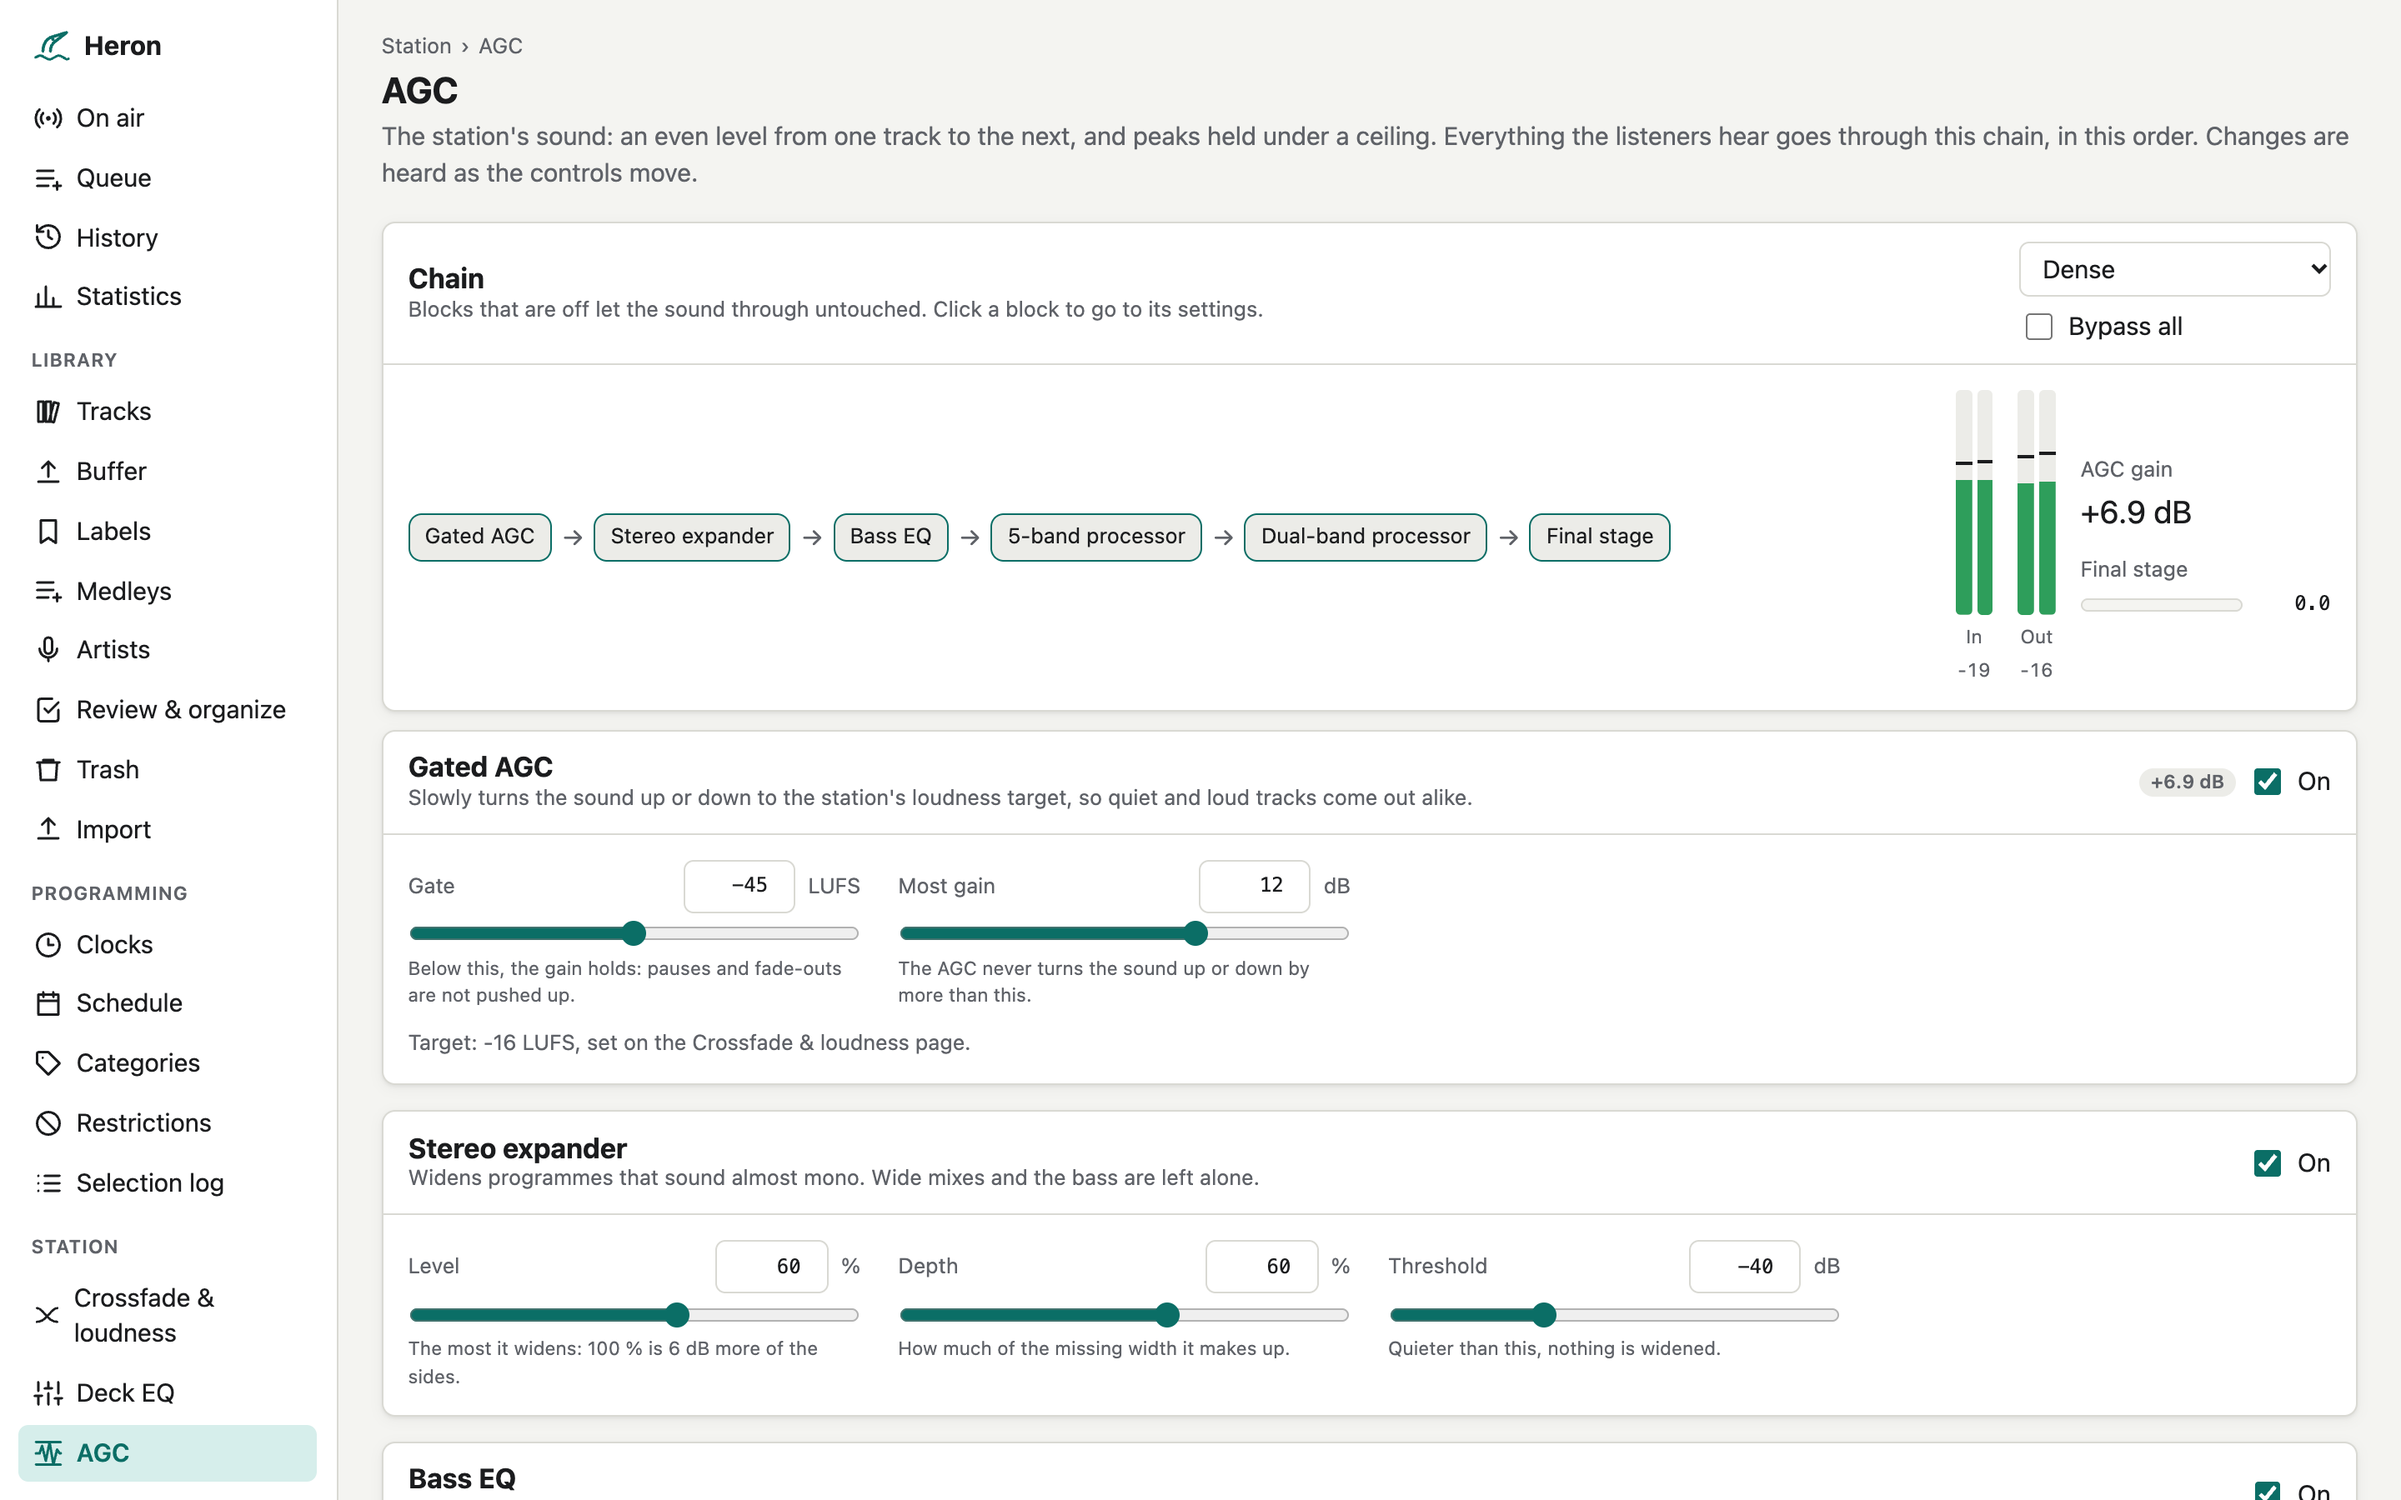
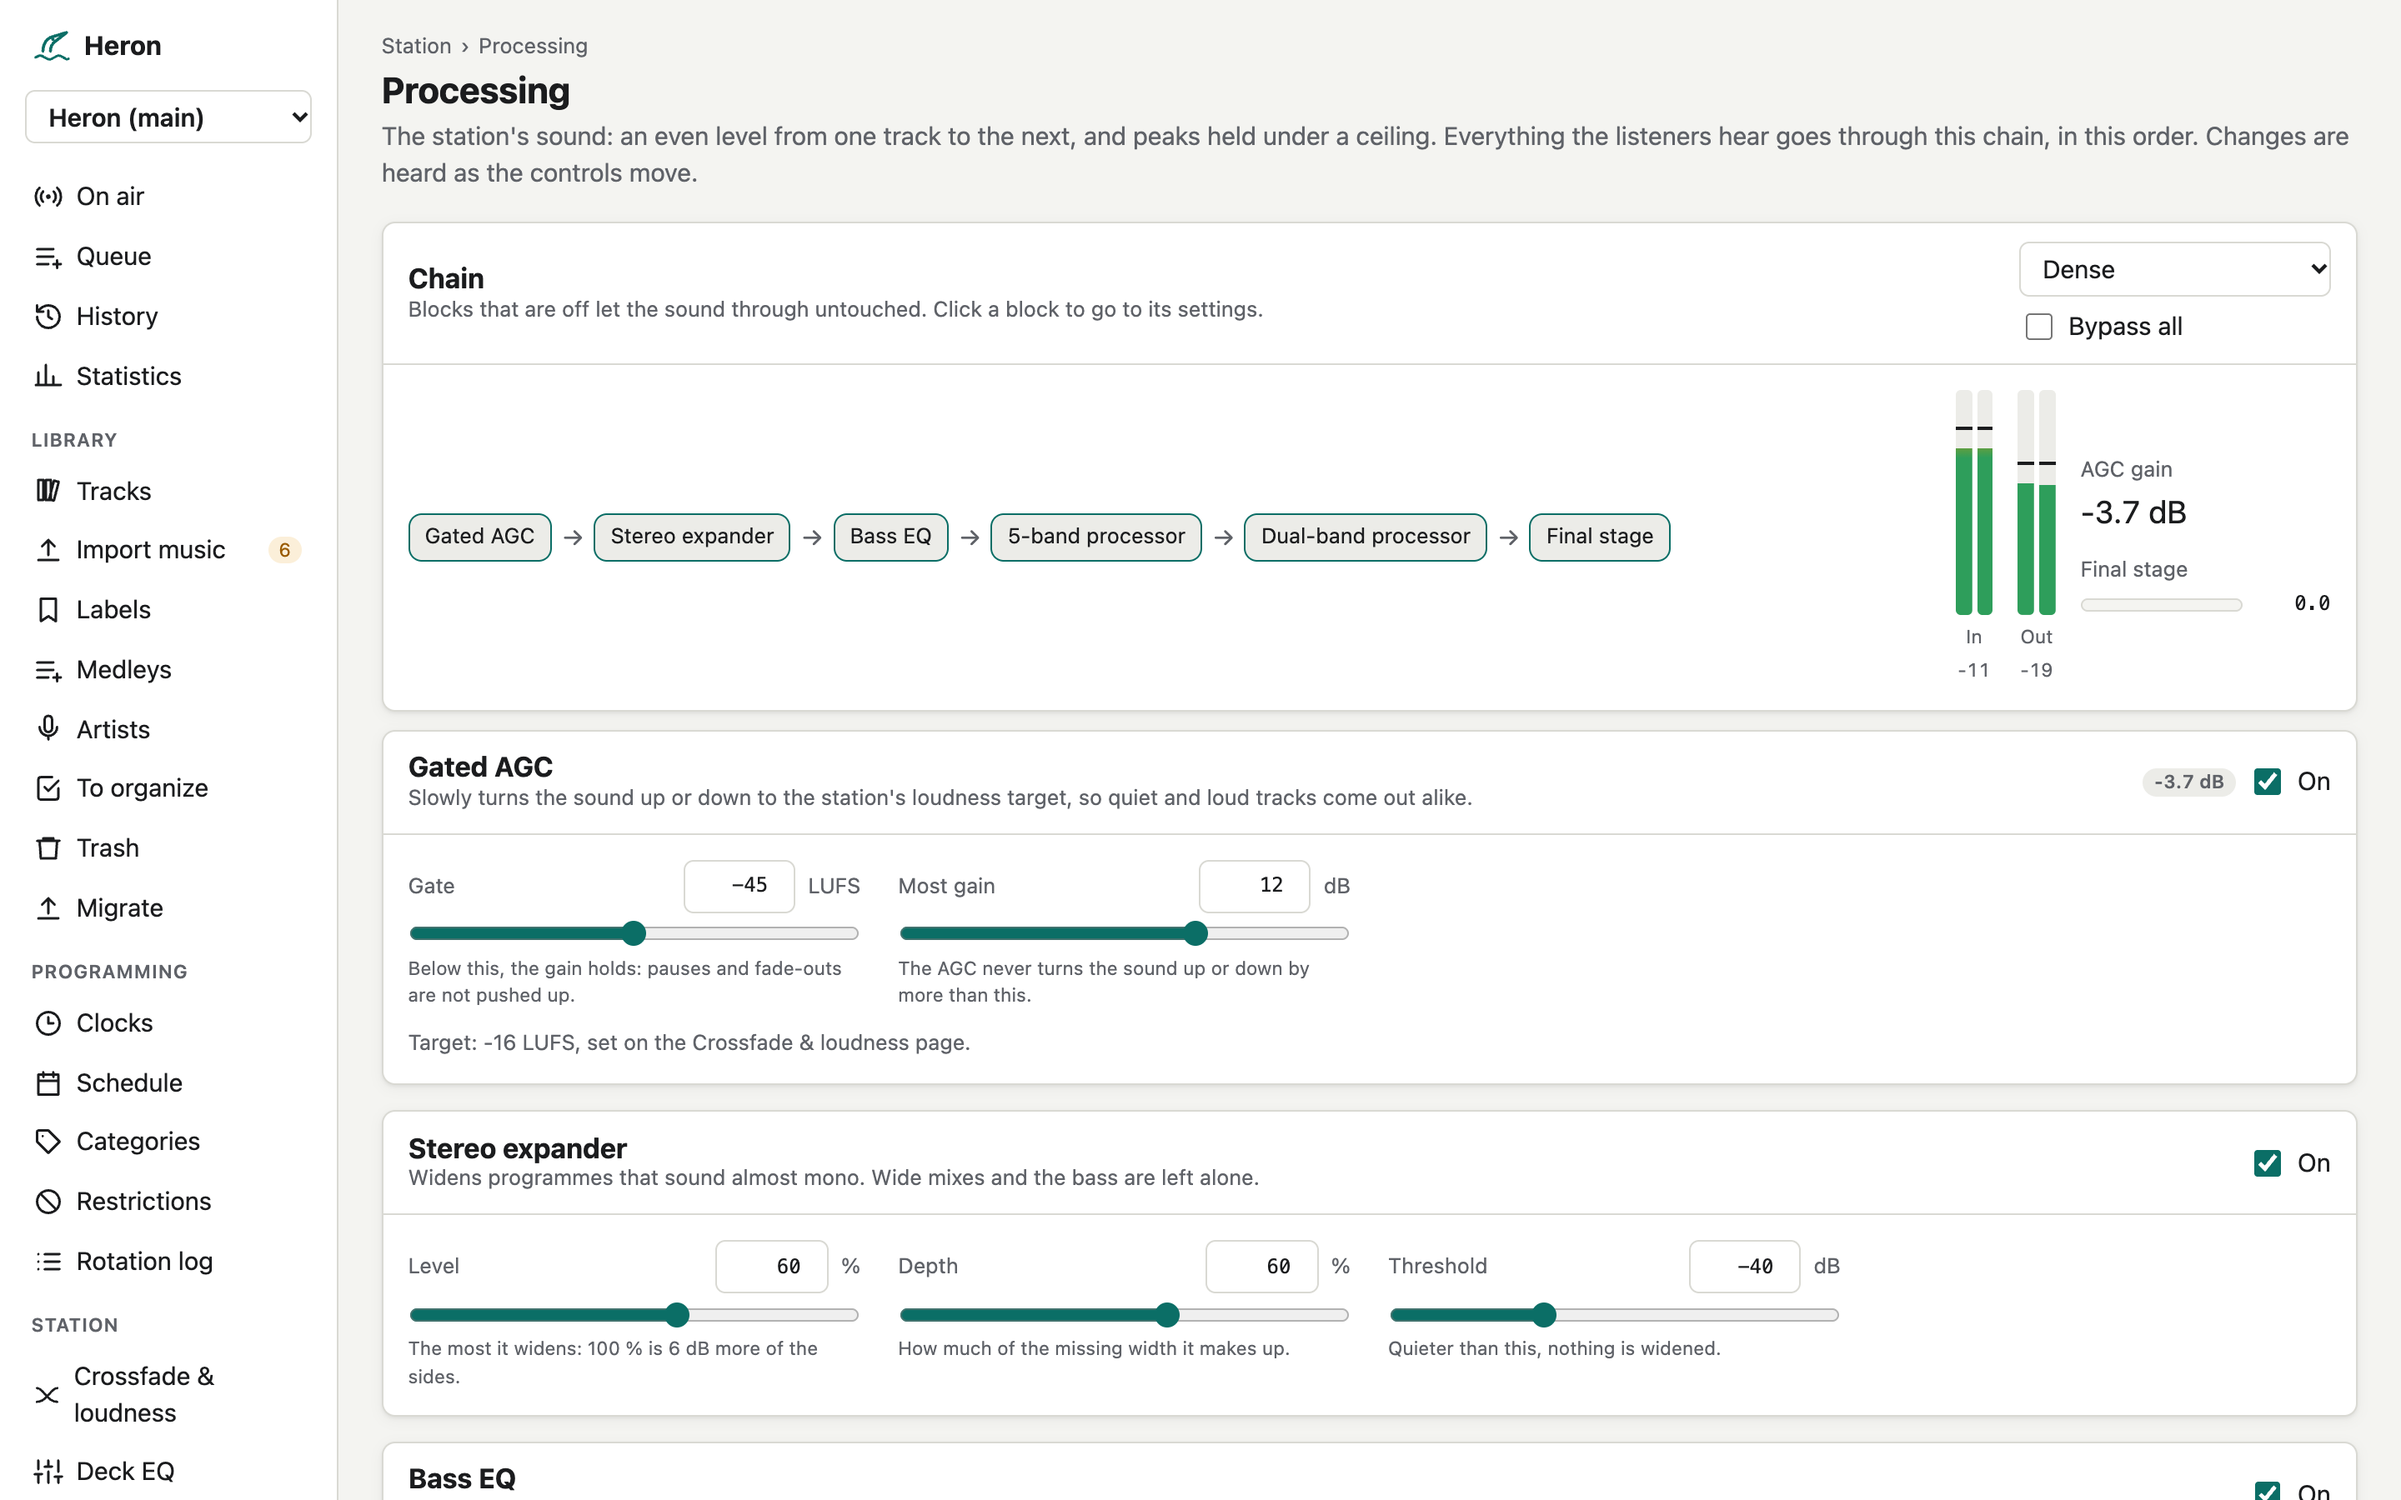
docs(readme): screenshots with the new page names
The demo station is fictional: its tracks and jingles are synthesised.

diff --git a/README.md b/README.md
@@ -36,8 +36,8 @@ Heron runs on Linux, amd64 and arm64, down to a Raspberry Pi.
 | [![A clock: its slots, the hour drawn as it will sound, a simulation](docs/images/clock-editor.png)](docs/images/clock-editor.png) **Clock editor:** slots by drag and drop, the hour as it will sound | [![A track: waveform with cue-in, cue-out, the end of the intro, the hook and where the next track starts](docs/images/track.png)](docs/images/track.png) **Track:** waveform, cue points, intro and hook, crossfade, analysis |
 | [![The week, hour by hour, painted with clocks](docs/images/schedule.png)](docs/images/schedule.png) **Schedule:** which clock runs at each hour of the week, and the schedules for seasons | [![The deck EQ: ten sliders and the response curve for the music, and for the FX player](docs/images/eq.png)](docs/images/eq.png) **Deck EQ:** the music and the FX player, heard as the sliders move |
 | [![The Processing page: the chain of blocks with its presets, input and output meters, the AGC's gain, and the gated AGC's settings](docs/images/agc.png)](docs/images/agc.png) **Processing:** the station's processing chain, block by block, with its meters and presets | [![The 5-band processor: crossovers, overdrive and, for each band, its gain reduction, mode, threshold, ratio, times and link](docs/images/agc-five-band.png)](docs/images/agc-five-band.png) **5-band processor:** each band's dynamics and live gain reduction, linked bands moving together |
-| [![A medley: its hooks and liners on a timeline, the liners over the music, the fade-out, the playhead](docs/images/medley.png)](docs/images/medley.png) **Medleys:** hooks and liners mixed into a track, on a timeline to listen to and adjust | [![The buffer: an album waiting to be imported, with its paths and categories](docs/images/buffer.png)](docs/images/buffer.png) **Buffer:** new music identified, checked and prepared before it is imported |
-| [![The rotation log: why each track was picked, from which clock and slot, the rules held or relaxed](docs/images/selection-log.png)](docs/images/selection-log.png) **Rotation log:** why each track was picked, and a simulation of the day or the week | [![The outputs: an Icecast stream connected with its listeners, the encoder profiles](docs/images/outputs.png)](docs/images/outputs.png) **Outputs:** stream servers and encoders, live state and listeners |
+| [![A medley: its hooks and liners on a timeline, the liners over the music, the fade-out, the playhead](docs/images/medley.png)](docs/images/medley.png) **Medleys:** hooks and liners mixed into a track, on a timeline to listen to and adjust | [![The Import music page: an album waiting to be imported, with its paths and categories](docs/images/import-music.png)](docs/images/import-music.png) **Import music:** new music identified, checked and prepared before it is imported |
+| [![The rotation log: why each track was picked, from which clock and slot, the rules held or relaxed](docs/images/rotation-log.png)](docs/images/rotation-log.png) **Rotation log:** why each track was picked, and a simulation of the day or the week | [![The outputs: an Icecast stream connected with its listeners, the encoder profiles](docs/images/outputs.png)](docs/images/outputs.png) **Outputs:** stream servers and encoders, live state and listeners |
 | [![The stations, each with the variable of its engine's address](docs/images/stations.png)](docs/images/stations.png) **Several stations:** each with its own engine, chosen at the top of the menu | [![The categories, with badges for the stations each one belongs to](docs/images/categories-stations.png)](docs/images/categories-stations.png) **Categories per station:** the library is shared, each category belongs to one station or several |
 | [![The rotation settings of a station, with separation rules across stations](docs/images/rules-across-stations.png)](docs/images/rules-across-stations.png) **Rules across stations:** keep an artist or a track apart from what the other stations play | [![The users, with a shared role and a role on each station](docs/images/roles-per-station.png)](docs/images/roles-per-station.png) **Roles per station:** operator on one station, viewer on another, or no access |
 | [![The On air page in the dark theme](docs/images/on-air-dark.png)](docs/images/on-air-dark.png) **Dark theme** | <p align="center"><img src="docs/images/on-air-phone.png" alt="The On air page at phone width" width="200"></p> **Phone width** |
